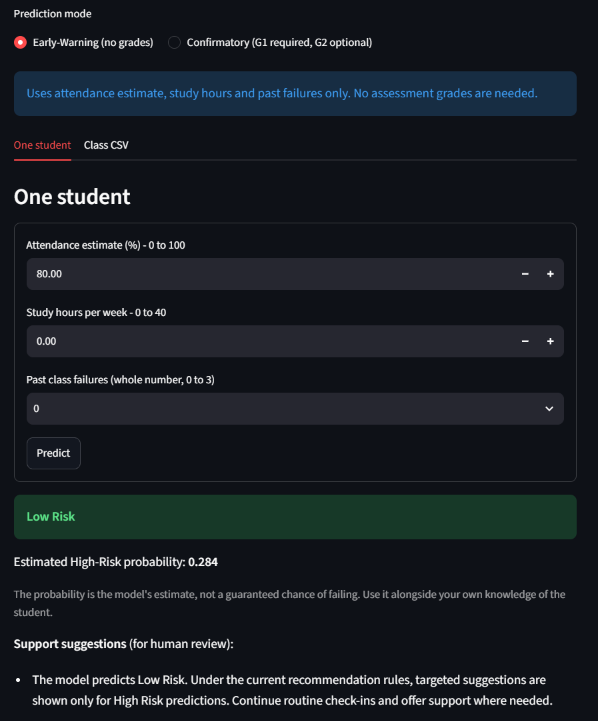
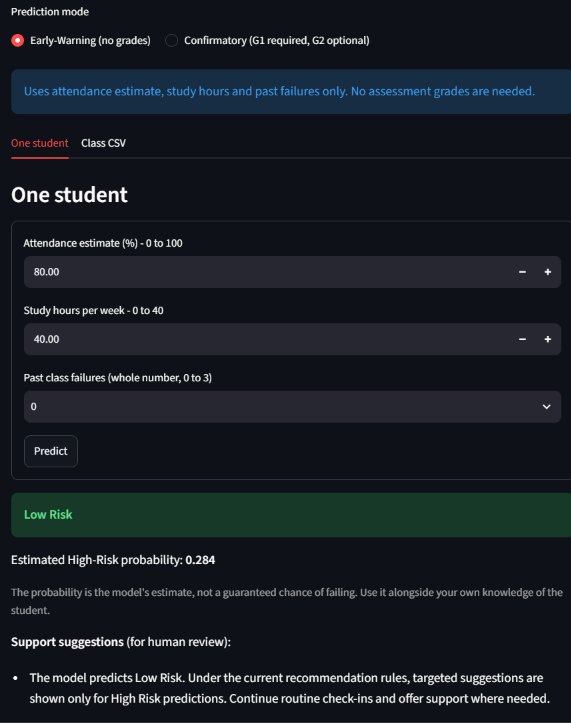
Complete P7 and P10 screenshot evidence for issue 56

diff --git a/project/docs/prototype-test-checklist.md b/project/docs/prototype-test-checklist.md
@@ -1,8 +1,8 @@
 # Prototype test checklist - Issue #56
 
 Owner and tester: Benjamin. Windows checks completed on 12 October 2026.
-Benjamin reported that P1-P16 passed. The screenshots below record the run;
-P7 and P10 have the evidence gaps noted below. Earlier review checks remain
+Benjamin completed P1-P16 with passing results. The screenshots below record
+the run, including the completed P7 and P10 evidence. Earlier review checks remain
 separate in [implementation checks](sprint5-implementation-checks.md).
 
 ## Record each run
@@ -32,8 +32,8 @@ investigate any failure. Keep the terminal running while using the dashboard.
 
 ## Checks
 
-Fictional student IDs were used. Pass records Benjamin's completed checks.
-Pass (reported) identifies a case whose screenshots do not cover every part.
+Fictional student IDs were used. Pass records Benjamin's completed checks,
+with actual results and screenshot links below.
 
 | ID | Check and expected result | Status | Actual result / evidence |
 |---|---|---|---|
@@ -43,10 +43,10 @@ Pass (reported) identifies a case whose screenshots do not cover every part.
 | P4 | Confirmatory: 80, 4, 0, G1 12, G2 0; G1+G2 model, score 30; zero is accepted | Pass | G1+G2 model: High Risk, 0.996, assessment suggestion; G2 0 accepted (score 30). [p4-g2-zero](evidence/issue56/windows/p4-g2-zero.png) |
 | P5 | Early-Warning: 80, 5, 0; Low Risk and routine guidance only with baseline models | Pass | Low Risk, 0.284, routine guidance only. [p5-low-risk](evidence/issue56/windows/p5-low-risk.png) |
 | P6 | Match form and command-line labels/probabilities for the same inputs and models | Pass | CLI and form agree: Early-Warning 0.859, G1-only 0.818, G1+G2 with zero 0.996; all High Risk. [p6-cli-comparison](evidence/issue56/windows/p6-cli-comparison.png) |
-| P7 | Study hours 0 and 40 accepted; above 40 rejected; invalid attendance rejected | Pass (reported) | Benjamin reports both 0 and 40 accepted; 41 and attendance 150 rejected. The file named p7-study-40.png duplicates the 0 screenshot, so 40 needs a replacement screenshot. [p7-study-0](evidence/issue56/windows/p7-study-0.png); [p7-study-41-error](evidence/issue56/windows/p7-study-41-error.png); [p7-attendance-150-error](evidence/issue56/windows/p7-attendance-150-error.png) |
+| P7 | Study hours 0 and 40 accepted; above 40 rejected; invalid attendance rejected | Pass | Study hours 0 and 40 accepted; 41 and attendance 150 rejected. The 40-hour example returns Low Risk (0.284) with routine guidance. [p7-study-40](evidence/issue56/windows/p7-study-40.png); [p7-study-0](evidence/issue56/windows/p7-study-0.png); [p7-study-41-error](evidence/issue56/windows/p7-study-41-error.png); [p7-attendance-150-error](evidence/issue56/windows/p7-attendance-150-error.png) |
 | P8 | Confirmatory missing G1 rejected; blank G2 accepted; invalid G2 such as NA rejected | Pass | Missing G1 and G2 NA rejected. Blank G2 accepted in P3; zero accepted in P4. [p8-missing-g1](evidence/issue56/windows/p8-missing-g1.png); [p8-g2-NA-error](evidence/issue56/windows/p8-g2-NA-error.png) |
 | P9 | Upload sample_roster.csv in Confirmatory: A/B processed, C/D skipped with reasons | Pass | 4 rows: A/B predicted, C/D skipped with attendance and G2 reasons; valid rows show routine guidance. [p9-results](evidence/issue56/windows/p9-results.png); [p9-skipped](evidence/issue56/windows/p9-skipped.png) |
-| P10 | Try dashboard_checks missing_g1_column.csv, empty.csv, header_only.csv and all_invalid.csv; clear messages and no invented results | Pass (reported) | Missing G1 column, empty and header-only files rejected with clear messages. Benjamin also reports the all-invalid check passed; its screenshot was not supplied. [p10-missing-column](evidence/issue56/windows/p10-missing-column.png); [p10-empty](evidence/issue56/windows/p10-empty.png); [p10-header-only](evidence/issue56/windows/p10-header-only.png) |
+| P10 | Try dashboard_checks missing_g1_column.csv, empty.csv, header_only.csv and all_invalid.csv; clear messages and no invented results | Pass | Missing G1 column, empty and header-only files rejected with clear messages. The all-invalid CSV shows 4 rows, 0 predicted and 4 skipped, with reasons for attendance, study hours, failures and missing G1. [p10-all-invalid](evidence/issue56/windows/p10-all-invalid.png); [p10-missing-column](evidence/issue56/windows/p10-missing-column.png); [p10-empty](evidence/issue56/windows/p10-empty.png); [p10-header-only](evidence/issue56/windows/p10-header-only.png) |
 | P11 | Try extra_comma.csv and no_student_ids.csv; correct row reasons and processed/skipped totals | Pass | Extra-comma file: 2 rows, 1 predicted, 1 skipped. No-ID file: 3 rows, row 1 and row 3 predicted, row 2 skipped for attendance. [p11-extra-comma](evidence/issue56/windows/p11-extra-comma.png); [p11-no-ids](evidence/issue56/windows/p11-no-ids.png) |
 | P12 | Upload duplicate IDs with different valid inputs and an invalid row; recommendations stay with the correct valid row | Pass | Duplicate-ID file: 5 rows, 2 predicted, 3 skipped. First DUP: G1-only High Risk 0.818 with assessment suggestion; second DUP: G1+G2 Low Risk 0.003 with routine guidance. [p12-duplicate-results](evidence/issue56/windows/p12-duplicate-results.png); [p16-invalid-failures](evidence/issue56/windows/p16-invalid-failures.png) |
 | P13 | Same student through form and CSV has matching messages; downloaded CSV includes them | Pass | First DUP matches the G1-only form example in P3. Downloaded CSV opened in Excel with two valid results and their recommendation messages. Export screenshot retained; CSV download itself is not included. [p13-export](evidence/issue56/windows/p13-export.png); [p12-duplicate-results](evidence/issue56/windows/p12-duplicate-results.png); [p3-g1-only](evidence/issue56/windows/p3-g1-only.png) |
@@ -63,10 +63,11 @@ manual model prediction should change simply because a rule threshold is crossed
 | Problem / failed check | Owner | Fix PR | Retest result |
 |---|---|---|---|
 | No software failures reported in this Windows run | Benjamin | Not needed | P1-P16 reported passed |
-| P7: study-hours 40 screenshot duplicates the 0 capture | Benjamin | Evidence follow-up | Replace with a capture showing 40 and its result |
-| P10: all-invalid screenshot missing | Benjamin | Evidence follow-up | Add capture showing 0 predicted, 4 skipped |
+| P7: replacement screenshot supplied | Benjamin | #76 | Resolved: screenshot shows 40 and a successful result |
+| P10: all-invalid screenshot supplied | Benjamin | #76 | Resolved: 4 rows, 0 predicted, 4 skipped with reasons |
 
-Windows run: Completed by Benjamin on 12 October 2026; evidence review gaps above.
+Windows run: Completed by Benjamin on 12 October 2026; P7 and P10 screenshot
+follow-ups are resolved in PR #76.
 macOS run: Not included in this record. Separate platform testing is planned in
 [Sprint 6, issue #66](https://github.com/Hakuverse/ICT304/issues/66).
 Peer review of this evidence is through the accompanying PR. This record does

diff --git a/project/docs/evidence/issue56/windows/README.md b/project/docs/evidence/issue56/windows/README.md
@@ -13,12 +13,11 @@ The recommendation tests are already part of the 89; they are not 11 extra tests
 
 ## Evidence notes
 
-- `p7-study-40.png` is identical to `p7-study-0.png` and shows study hours 0.
-  It is retained as supplied but is not proof of the 40 boundary check.
-  Replace it with a screenshot showing study hours 40 and a successful result.
-- P10's all-invalid case was reported passed, but no screenshot was supplied.
-  Add a capture of `all_invalid.csv` in Confirmatory mode showing 4 rows,
-  0 predicted and 4 skipped with reasons.
+- The replacement [study-hours 40 screenshot](p7-study-40.png) shows the
+  accepted boundary value and a Low Risk result (0.284) with routine guidance.
+- The [all-invalid CSV screenshot](p10-all-invalid.png) shows Confirmatory mode,
+  4 rows, 0 predicted and 4 skipped, with a reason for each skipped row.
+- Both earlier screenshot gaps were resolved in PR #76.
 - P13 shows the downloaded result opened in Excel. The downloaded CSV itself
   is not included in this evidence folder.
 - The [duplicate-ID input](../../../../data/issue56-duplicate-and-invalid.csv)
@@ -30,6 +29,7 @@ The recommendation tests are already part of the 89; they are not 11 extra tests
 - [p1-environment00.png](p1-environment00.png)
 - [p1-environment01.png](p1-environment01.png)
 - [p1-tests.png](p1-tests.png)
+- [p10-all-invalid.png](p10-all-invalid.png)
 - [p10-empty.png](p10-empty.png)
 - [p10-header-only.png](p10-header-only.png)
 - [p10-missing-column.png](p10-missing-column.png)

diff --git a/project/docs/sprint5-planning.md b/project/docs/sprint5-planning.md
@@ -41,9 +41,9 @@ user feedback and fixes. Do not mark unfinished Sprint 5 tasks as complete.
 
 Issues #51-#55 are complete following PRs #71-#74; cleanup PR #75 is merged.
 Benjamin completed the Windows [#56 checks](prototype-test-checklist.md) and
-reported P1-P16 passed. Issue #56 is closed. Its evidence PR records the results
-and identifies two screenshot gaps for P7 and P10. macOS testing remains a
-separate Sprint 6 check under #66.
+reported P1-P16 passed. Issue #56 is closed. Evidence PR #76 records the results
+and all 30 screenshots, including the completed P7 and P10 follow-ups.
+macOS testing remains a separate Sprint 6 check under #66.
 
 The next task is the [#57 demonstration](prototype-demo-notes.md), followed by
 recording the actual feedback and agreed actions. Recommendation rules are
